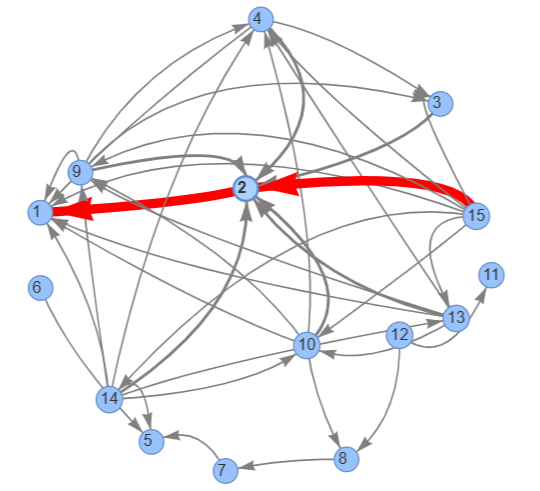
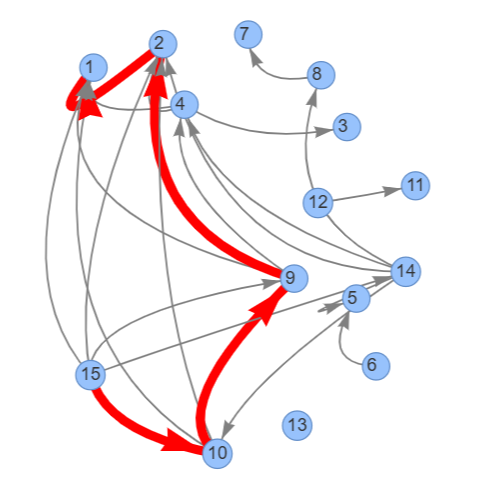
combined cross encoder and cosine together

diff --git a/interactive_graph_without_threshold.html b/interactive_graph_without_threshold.html
@@ -89,7 +89,7 @@
 
                   // parsing and collecting nodes and edges from the python
                   nodes = new vis.DataSet([{"color": "#97c2fc", "font": {"align": "center", "size": 20}, "id": 1, "label": "1", "shape": "circle", "title": "user: How do I start preparing for a career in robotics?"}, {"color": "#97c2fc", "font": {"align": "center", "size": 20}, "id": 2, "label": "2", "shape": "circle", "title": "assistant: You can begin with mechanical basics, then move into programming and embedded systems."}, {"color": "#97c2fc", "font": {"align": "center", "size": 20}, "id": 3, "label": "3", "shape": "circle", "title": "user: Which language is preferred\u2014C++ or Python?"}, {"color": "#97c2fc", "font": {"align": "center", "size": 20}, "id": 4, "label": "4", "shape": "circle", "title": "assistant: Python is great for prototyping, but C++ is essential for performance-critical robotics."}, {"color": "#97c2fc", "font": {"align": "center", "size": 20}, "id": 5, "label": "5", "shape": "circle", "title": "user: Any tips on improving productivity while studying at home?"}, {"color": "#97c2fc", "font": {"align": "center", "size": 20}, "id": 6, "label": "6", "shape": "circle", "title": "assistant: Use Pomodoro timers, block distractions, and keep a dedicated study space."}, {"color": "#97c2fc", "font": {"align": "center", "size": 20}, "id": 7, "label": "7", "shape": "circle", "title": "user: Is it effective to work out without going to the gym?"}, {"color": "#97c2fc", "font": {"align": "center", "size": 20}, "id": 8, "label": "8", "shape": "circle", "title": "assistant: Absolutely. Bodyweight exercises and consistency can be very effective."}, {"color": "#97c2fc", "font": {"align": "center", "size": 20}, "id": 9, "label": "9", "shape": "circle", "title": "user: Are there open-source platforms where I can practice robotics programming?"}, {"color": "#97c2fc", "font": {"align": "center", "size": 20}, "id": 10, "label": "10", "shape": "circle", "title": "assistant: Yes, check out ROS (Robot Operating System) and simulators like Gazebo or Webots."}, {"color": "#97c2fc", "font": {"align": "center", "size": 20}, "id": 11, "label": "11", "shape": "circle", "title": "user: What\u2019s a simple dinner recipe I can cook in under 30 minutes?"}, {"color": "#97c2fc", "font": {"align": "center", "size": 20}, "id": 12, "label": "12", "shape": "circle", "title": "assistant: Try stir-fried vegetables with tofu and rice\u2014it\u2019s quick and nutritious."}, {"color": "#97c2fc", "font": {"align": "center", "size": 20}, "id": 13, "label": "13", "shape": "circle", "title": "user: Is it necessary to know calculus for AI research?"}, {"color": "#97c2fc", "font": {"align": "center", "size": 20}, "id": 14, "label": "14", "shape": "circle", "title": "assistant: It helps with understanding backpropagation and optimization, but you can get started without mastering it."}, {"color": "#97c2fc", "font": {"align": "center", "size": 20}, "id": 15, "label": "15", "shape": "circle", "title": "user: Should I start with ROS or learn basic electronics first if I want to build small autonomous vehicles?"}]);
-                  edges = new vis.DataSet([{"arrows": "to", "color": "red", "from": 2, "title": "Weight: 0.55", "to": 1, "width": 10}, {"arrows": "to", "color": "gray", "from": 3, "title": "Weight: 0.19", "to": 1, "width": 2}, {"arrows": "to", "color": "gray", "from": 3, "title": "Weight: 0.28", "to": 2, "width": 2}, {"arrows": "to", "color": "gray", "from": 4, "title": "Weight: 0.39", "to": 1, "width": 2}, {"arrows": "to", "color": "gray", "from": 4, "title": "Weight: 0.42", "to": 2, "width": 2}, {"arrows": "to", "color": "gray", "from": 4, "title": "Weight: 0.72", "to": 3, "width": 2}, {"arrows": "to", "color": "gray", "from": 5, "title": "Weight: 0.13", "to": 1, "width": 2}, {"arrows": "to", "color": "gray", "from": 5, "title": "Weight: 0.10", "to": 2, "width": 2}, {"arrows": "to", "color": "gray", "from": 5, "title": "Weight: 0.02", "to": 3, "width": 2}, {"arrows": "to", "color": "gray", "from": 5, "title": "Weight: 0.06", "to": 4, "width": 2}, {"arrows": "to", "color": "gray", "from": 6, "title": "Weight: 0.11", "to": 1, "width": 2}, {"arrows": "to", "color": "gray", "from": 6, "title": "Weight: 0.09", "to": 2, "width": 2}, {"arrows": "to", "color": "gray", "from": 6, "title": "Weight: 0.05", "to": 4, "width": 2}, {"arrows": "to", "color": "gray", "from": 6, "title": "Weight: 0.59", "to": 5, "width": 2}, {"arrows": "to", "color": "gray", "from": 7, "title": "Weight: 0.02", "to": 4, "width": 2}, {"arrows": "to", "color": "gray", "from": 7, "title": "Weight: 0.20", "to": 5, "width": 2}, {"arrows": "to", "color": "gray", "from": 7, "title": "Weight: 0.09", "to": 6, "width": 2}, {"arrows": "to", "color": "gray", "from": 8, "title": "Weight: 0.01", "to": 1, "width": 2}, {"arrows": "to", "color": "gray", "from": 8, "title": "Weight: 0.02", "to": 2, "width": 2}, {"arrows": "to", "color": "gray", "from": 8, "title": "Weight: 0.02", "to": 3, "width": 2}, {"arrows": "to", "color": "gray", "from": 8, "title": "Weight: 0.13", "to": 4, "width": 2}, {"arrows": "to", "color": "gray", "from": 8, "title": "Weight: 0.14", "to": 5, "width": 2}, {"arrows": "to", "color": "gray", "from": 8, "title": "Weight: 0.07", "to": 6, "width": 2}, {"arrows": "to", "color": "gray", "from": 8, "title": "Weight: 0.53", "to": 7, "width": 2}, {"arrows": "to", "color": "gray", "from": 9, "title": "Weight: 0.53", "to": 1, "width": 2}, {"arrows": "to", "color": "gray", "from": 9, "title": "Weight: 0.45", "to": 2, "width": 2}, {"arrows": "to", "color": "gray", "from": 9, "title": "Weight: 0.33", "to": 3, "width": 2}, {"arrows": "to", "color": "gray", "from": 9, "title": "Weight: 0.56", "to": 4, "width": 2}, {"arrows": "to", "color": "gray", "from": 9, "title": "Weight: 0.12", "to": 5, "width": 2}, {"arrows": "to", "color": "gray", "from": 9, "title": "Weight: 0.06", "to": 6, "width": 2}, {"arrows": "to", "color": "gray", "from": 9, "title": "Weight: 0.04", "to": 7, "width": 2}, {"arrows": "to", "color": "gray", "from": 9, "title": "Weight: 0.16", "to": 8, "width": 2}, {"arrows": "to", "color": "gray", "from": 10, "title": "Weight: 0.31", "to": 1, "width": 2}, {"arrows": "to", "color": "gray", "from": 10, "title": "Weight: 0.33", "to": 2, "width": 2}, {"arrows": "to", "color": "gray", "from": 10, "title": "Weight: 0.16", "to": 3, "width": 2}, {"arrows": "to", "color": "gray", "from": 10, "title": "Weight: 0.47", "to": 4, "width": 2}, {"arrows": "to", "color": "gray", "from": 10, "title": "Weight: 0.06", "to": 5, "width": 2}, {"arrows": "to", "color": "gray", "from": 10, "title": "Weight: 0.10", "to": 6, "width": 2}, {"arrows": "to", "color": "gray", "from": 10, "title": "Weight: 0.06", "to": 7, "width": 2}, {"arrows": "to", "color": "gray", "from": 10, "title": "Weight: 0.23", "to": 8, "width": 2}, {"arrows": "to", "color": "gray", "from": 10, "title": "Weight: 0.59", "to": 9, "width": 2}, {"arrows": "to", "color": "gray", "from": 11, "title": "Weight: 0.02", "to": 2, "width": 2}, {"arrows": "to", "color": "gray", "from": 11, "title": "Weight: 0.01", "to": 3, "width": 2}, {"arrows": "to", "color": "gray", "from": 11, "title": "Weight: 0.05", "to": 4, "width": 2}, {"arrows": "to", "color": "gray", "from": 11, "title": "Weight: 0.11", "to": 5, "width": 2}, {"arrows": "to", "color": "gray", "from": 11, "title": "Weight: 0.09", "to": 6, "width": 2}, {"arrows": "to", "color": "gray", "from": 11, "title": "Weight: 0.05", "to": 7, "width": 2}, {"arrows": "to", "color": "gray", "from": 11, "title": "Weight: 0.02", "to": 8, "width": 2}, {"arrows": "to", "color": "gray", "from": 11, "title": "Weight: 0.03", "to": 9, "width": 2}, {"arrows": "to", "color": "gray", "from": 12, "title": "Weight: 0.00", "to": 1, "width": 2}, {"arrows": "to", "color": "gray", "from": 12, "title": "Weight: 0.08", "to": 2, "width": 2}, {"arrows": "to", "color": "gray", "from": 12, "title": "Weight: 0.02", "to": 3, "width": 2}, {"arrows": "to", "color": "gray", "from": 12, "title": "Weight: 0.07", "to": 4, "width": 2}, {"arrows": "to", "color": "gray", "from": 12, "title": "Weight: 0.12", "to": 5, "width": 2}, {"arrows": "to", "color": "gray", "from": 12, "title": "Weight: 0.11", "to": 6, "width": 2}, {"arrows": "to", "color": "gray", "from": 12, "title": "Weight: 0.11", "to": 7, "width": 2}, {"arrows": "to", "color": "gray", "from": 12, "title": "Weight: 0.24", "to": 8, "width": 2}, {"arrows": "to", "color": "gray", "from": 12, "title": "Weight: 0.10", "to": 9, "width": 2}, {"arrows": "to", "color": "gray", "from": 12, "title": "Weight: 0.07", "to": 10, "width": 2}, {"arrows": "to", "color": "gray", "from": 12, "title": "Weight: 0.38", "to": 11, "width": 2}, {"arrows": "to", "color": "gray", "from": 13, "title": "Weight: 0.29", "to": 1, "width": 2}, {"arrows": "to", "color": "gray", "from": 13, "title": "Weight: 0.26", "to": 2, "width": 2}, {"arrows": "to", "color": "gray", "from": 13, "title": "Weight: 0.15", "to": 3, "width": 2}, {"arrows": "to", "color": "gray", "from": 13, "title": "Weight: 0.28", "to": 4, "width": 2}, {"arrows": "to", "color": "gray", "from": 13, "title": "Weight: 0.14", "to": 5, "width": 2}, {"arrows": "to", "color": "gray", "from": 13, "title": "Weight: 0.14", "to": 6, "width": 2}, {"arrows": "to", "color": "gray", "from": 13, "title": "Weight: 0.10", "to": 7, "width": 2}, {"arrows": "to", "color": "gray", "from": 13, "title": "Weight: 0.14", "to": 8, "width": 2}, {"arrows": "to", "color": "gray", "from": 13, "title": "Weight: 0.24", "to": 9, "width": 2}, {"arrows": "to", "color": "gray", "from": 13, "title": "Weight: 0.29", "to": 10, "width": 2}, {"arrows": "to", "color": "gray", "from": 14, "title": "Weight: 0.28", "to": 1, "width": 2}, {"arrows": "to", "color": "gray", "from": 14, "title": "Weight: 0.37", "to": 2, "width": 2}, {"arrows": "to", "color": "gray", "from": 14, "title": "Weight: 0.19", "to": 3, "width": 2}, {"arrows": "to", "color": "gray", "from": 14, "title": "Weight: 0.34", "to": 4, "width": 2}, {"arrows": "to", "color": "gray", "from": 14, "title": "Weight: 0.24", "to": 5, "width": 2}, {"arrows": "to", "color": "gray", "from": 14, "title": "Weight: 0.17", "to": 6, "width": 2}, {"arrows": "to", "color": "gray", "from": 14, "title": "Weight: 0.14", "to": 7, "width": 2}, {"arrows": "to", "color": "gray", "from": 14, "title": "Weight: 0.14", "to": 8, "width": 2}, {"arrows": "to", "color": "gray", "from": 14, "title": "Weight: 0.30", "to": 9, "width": 2}, {"arrows": "to", "color": "gray", "from": 14, "title": "Weight: 0.27", "to": 10, "width": 2}, {"arrows": "to", "color": "gray", "from": 14, "title": "Weight: 0.05", "to": 11, "width": 2}, {"arrows": "to", "color": "gray", "from": 14, "title": "Weight: 0.06", "to": 12, "width": 2}, {"arrows": "to", "color": "gray", "from": 14, "title": "Weight: 0.57", "to": 13, "width": 2}, {"arrows": "to", "color": "gray", "from": 15, "title": "Weight: 0.53", "to": 1, "width": 2}, {"arrows": "to", "color": "red", "from": 15, "title": "Weight: 0.53", "to": 2, "width": 10}, {"arrows": "to", "color": "gray", "from": 15, "title": "Weight: 0.28", "to": 3, "width": 2}, {"arrows": "to", "color": "gray", "from": 15, "title": "Weight: 0.38", "to": 4, "width": 2}, {"arrows": "to", "color": "gray", "from": 15, "title": "Weight: 0.09", "to": 5, "width": 2}, {"arrows": "to", "color": "gray", "from": 15, "title": "Weight: 0.00", "to": 6, "width": 2}, {"arrows": "to", "color": "gray", "from": 15, "title": "Weight: 0.00", "to": 7, "width": 2}, {"arrows": "to", "color": "gray", "from": 15, "title": "Weight: 0.08", "to": 8, "width": 2}, {"arrows": "to", "color": "gray", "from": 15, "title": "Weight: 0.39", "to": 9, "width": 2}, {"arrows": "to", "color": "gray", "from": 15, "title": "Weight: 0.39", "to": 10, "width": 2}, {"arrows": "to", "color": "gray", "from": 15, "title": "Weight: 0.06", "to": 11, "width": 2}, {"arrows": "to", "color": "gray", "from": 15, "title": "Weight: 0.05", "to": 12, "width": 2}, {"arrows": "to", "color": "gray", "from": 15, "title": "Weight: 0.26", "to": 13, "width": 2}, {"arrows": "to", "color": "gray", "from": 15, "title": "Weight: 0.35", "to": 14, "width": 2}]);
+                  edges = new vis.DataSet([{"arrows": "to", "color": "red", "from": 2, "title": "Weight: 0.37", "to": 1, "width": 10}, {"arrows": "to", "color": "gray", "from": 3, "title": "Weight: 0.00", "to": 1, "width": 2}, {"arrows": "to", "color": "gray", "from": 3, "title": "Weight: 0.14", "to": 2, "width": 2}, {"arrows": "to", "color": "gray", "from": 4, "title": "Weight: 0.21", "to": 1, "width": 2}, {"arrows": "to", "color": "gray", "from": 4, "title": "Weight: 0.24", "to": 2, "width": 2}, {"arrows": "to", "color": "gray", "from": 4, "title": "Weight: 0.40", "to": 3, "width": 2}, {"arrows": "to", "color": "gray", "from": 5, "title": "Weight: 0.01", "to": 1, "width": 2}, {"arrows": "to", "color": "gray", "from": 5, "title": "Weight: 0.01", "to": 2, "width": 2}, {"arrows": "to", "color": "gray", "from": 5, "title": "Weight: 0.02", "to": 3, "width": 2}, {"arrows": "to", "color": "gray", "from": 5, "title": "Weight: 0.04", "to": 4, "width": 2}, {"arrows": "to", "color": "gray", "from": 6, "title": "Weight: 0.00", "to": 1, "width": 2}, {"arrows": "to", "color": "gray", "from": 6, "title": "Weight: 0.02", "to": 2, "width": 2}, {"arrows": "to", "color": "gray", "from": 6, "title": "Weight: 0.00", "to": 3, "width": 2}, {"arrows": "to", "color": "gray", "from": 6, "title": "Weight: 0.00", "to": 4, "width": 2}, {"arrows": "to", "color": "gray", "from": 6, "title": "Weight: 0.29", "to": 5, "width": 2}, {"arrows": "to", "color": "gray", "from": 7, "title": "Weight: 0.00", "to": 1, "width": 2}, {"arrows": "to", "color": "gray", "from": 7, "title": "Weight: 0.00", "to": 2, "width": 2}, {"arrows": "to", "color": "gray", "from": 7, "title": "Weight: 0.00", "to": 3, "width": 2}, {"arrows": "to", "color": "gray", "from": 7, "title": "Weight: 0.00", "to": 4, "width": 2}, {"arrows": "to", "color": "gray", "from": 7, "title": "Weight: 0.08", "to": 5, "width": 2}, {"arrows": "to", "color": "gray", "from": 7, "title": "Weight: 0.01", "to": 6, "width": 2}, {"arrows": "to", "color": "gray", "from": 8, "title": "Weight: 0.00", "to": 1, "width": 2}, {"arrows": "to", "color": "gray", "from": 8, "title": "Weight: 0.02", "to": 2, "width": 2}, {"arrows": "to", "color": "gray", "from": 8, "title": "Weight: 0.00", "to": 3, "width": 2}, {"arrows": "to", "color": "gray", "from": 8, "title": "Weight: 0.01", "to": 4, "width": 2}, {"arrows": "to", "color": "gray", "from": 8, "title": "Weight: 0.08", "to": 5, "width": 2}, {"arrows": "to", "color": "gray", "from": 8, "title": "Weight: 0.04", "to": 6, "width": 2}, {"arrows": "to", "color": "gray", "from": 8, "title": "Weight: 0.33", "to": 7, "width": 2}, {"arrows": "to", "color": "gray", "from": 9, "title": "Weight: 0.41", "to": 1, "width": 2}, {"arrows": "to", "color": "red", "from": 9, "title": "Weight: 0.30", "to": 2, "width": 10}, {"arrows": "to", "color": "gray", "from": 9, "title": "Weight: 0.09", "to": 3, "width": 2}, {"arrows": "to", "color": "gray", "from": 9, "title": "Weight: 0.23", "to": 4, "width": 2}, {"arrows": "to", "color": "gray", "from": 9, "title": "Weight: 0.06", "to": 5, "width": 2}, {"arrows": "to", "color": "gray", "from": 9, "title": "Weight: 0.01", "to": 6, "width": 2}, {"arrows": "to", "color": "gray", "from": 9, "title": "Weight: 0.03", "to": 7, "width": 2}, {"arrows": "to", "color": "gray", "from": 9, "title": "Weight: 0.00", "to": 8, "width": 2}, {"arrows": "to", "color": "gray", "from": 10, "title": "Weight: 0.24", "to": 1, "width": 2}, {"arrows": "to", "color": "gray", "from": 10, "title": "Weight: 0.27", "to": 2, "width": 2}, {"arrows": "to", "color": "gray", "from": 10, "title": "Weight: 0.02", "to": 3, "width": 2}, {"arrows": "to", "color": "gray", "from": 10, "title": "Weight: 0.19", "to": 4, "width": 2}, {"arrows": "to", "color": "gray", "from": 10, "title": "Weight: 0.11", "to": 5, "width": 2}, {"arrows": "to", "color": "gray", "from": 10, "title": "Weight: 0.07", "to": 6, "width": 2}, {"arrows": "to", "color": "gray", "from": 10, "title": "Weight: 0.05", "to": 7, "width": 2}, {"arrows": "to", "color": "gray", "from": 10, "title": "Weight: 0.07", "to": 8, "width": 2}, {"arrows": "to", "color": "red", "from": 10, "title": "Weight: 0.31", "to": 9, "width": 10}, {"arrows": "to", "color": "gray", "from": 11, "title": "Weight: 0.00", "to": 1, "width": 2}, {"arrows": "to", "color": "gray", "from": 11, "title": "Weight: 0.00", "to": 2, "width": 2}, {"arrows": "to", "color": "gray", "from": 11, "title": "Weight: 0.00", "to": 3, "width": 2}, {"arrows": "to", "color": "gray", "from": 11, "title": "Weight: 0.00", "to": 4, "width": 2}, {"arrows": "to", "color": "gray", "from": 11, "title": "Weight: 0.01", "to": 5, "width": 2}, {"arrows": "to", "color": "gray", "from": 11, "title": "Weight: 0.01", "to": 6, "width": 2}, {"arrows": "to", "color": "gray", "from": 11, "title": "Weight: 0.00", "to": 7, "width": 2}, {"arrows": "to", "color": "gray", "from": 11, "title": "Weight: 0.00", "to": 8, "width": 2}, {"arrows": "to", "color": "gray", "from": 11, "title": "Weight: 0.00", "to": 9, "width": 2}, {"arrows": "to", "color": "gray", "from": 11, "title": "Weight: 0.00", "to": 10, "width": 2}, {"arrows": "to", "color": "gray", "from": 12, "title": "Weight: 0.00", "to": 1, "width": 2}, {"arrows": "to", "color": "gray", "from": 12, "title": "Weight: 0.02", "to": 2, "width": 2}, {"arrows": "to", "color": "gray", "from": 12, "title": "Weight: 0.00", "to": 3, "width": 2}, {"arrows": "to", "color": "gray", "from": 12, "title": "Weight: 0.01", "to": 4, "width": 2}, {"arrows": "to", "color": "gray", "from": 12, "title": "Weight: 0.04", "to": 5, "width": 2}, {"arrows": "to", "color": "gray", "from": 12, "title": "Weight: 0.02", "to": 6, "width": 2}, {"arrows": "to", "color": "gray", "from": 12, "title": "Weight: 0.03", "to": 7, "width": 2}, {"arrows": "to", "color": "gray", "from": 12, "title": "Weight: 0.06", "to": 8, "width": 2}, {"arrows": "to", "color": "gray", "from": 12, "title": "Weight: 0.00", "to": 9, "width": 2}, {"arrows": "to", "color": "gray", "from": 12, "title": "Weight: 0.04", "to": 10, "width": 2}, {"arrows": "to", "color": "gray", "from": 12, "title": "Weight: 0.21", "to": 11, "width": 2}, {"arrows": "to", "color": "gray", "from": 13, "title": "Weight: 0.17", "to": 1, "width": 2}, {"arrows": "to", "color": "gray", "from": 13, "title": "Weight: 0.07", "to": 2, "width": 2}, {"arrows": "to", "color": "gray", "from": 13, "title": "Weight: 0.03", "to": 3, "width": 2}, {"arrows": "to", "color": "gray", "from": 13, "title": "Weight: 0.08", "to": 4, "width": 2}, {"arrows": "to", "color": "gray", "from": 13, "title": "Weight: 0.06", "to": 5, "width": 2}, {"arrows": "to", "color": "gray", "from": 13, "title": "Weight: 0.04", "to": 6, "width": 2}, {"arrows": "to", "color": "gray", "from": 13, "title": "Weight: 0.00", "to": 7, "width": 2}, {"arrows": "to", "color": "gray", "from": 13, "title": "Weight: 0.00", "to": 8, "width": 2}, {"arrows": "to", "color": "gray", "from": 13, "title": "Weight: 0.15", "to": 9, "width": 2}, {"arrows": "to", "color": "gray", "from": 13, "title": "Weight: 0.11", "to": 10, "width": 2}, {"arrows": "to", "color": "gray", "from": 13, "title": "Weight: 0.00", "to": 11, "width": 2}, {"arrows": "to", "color": "gray", "from": 13, "title": "Weight: 0.00", "to": 12, "width": 2}, {"arrows": "to", "color": "gray", "from": 14, "title": "Weight: 0.20", "to": 1, "width": 2}, {"arrows": "to", "color": "gray", "from": 14, "title": "Weight: 0.32", "to": 2, "width": 2}, {"arrows": "to", "color": "gray", "from": 14, "title": "Weight: 0.09", "to": 3, "width": 2}, {"arrows": "to", "color": "gray", "from": 14, "title": "Weight: 0.27", "to": 4, "width": 2}, {"arrows": "to", "color": "gray", "from": 14, "title": "Weight: 0.21", "to": 5, "width": 2}, {"arrows": "to", "color": "gray", "from": 14, "title": "Weight: 0.15", "to": 6, "width": 2}, {"arrows": "to", "color": "gray", "from": 14, "title": "Weight: 0.17", "to": 7, "width": 2}, {"arrows": "to", "color": "gray", "from": 14, "title": "Weight: 0.20", "to": 8, "width": 2}, {"arrows": "to", "color": "gray", "from": 14, "title": "Weight: 0.17", "to": 9, "width": 2}, {"arrows": "to", "color": "gray", "from": 14, "title": "Weight: 0.21", "to": 10, "width": 2}, {"arrows": "to", "color": "gray", "from": 14, "title": "Weight: 0.08", "to": 11, "width": 2}, {"arrows": "to", "color": "gray", "from": 14, "title": "Weight: 0.08", "to": 12, "width": 2}, {"arrows": "to", "color": "gray", "from": 14, "title": "Weight: 0.15", "to": 13, "width": 2}, {"arrows": "to", "color": "gray", "from": 15, "title": "Weight: 0.49", "to": 1, "width": 2}, {"arrows": "to", "color": "gray", "from": 15, "title": "Weight: 0.44", "to": 2, "width": 2}, {"arrows": "to", "color": "gray", "from": 15, "title": "Weight: 0.03", "to": 3, "width": 2}, {"arrows": "to", "color": "gray", "from": 15, "title": "Weight: 0.19", "to": 4, "width": 2}, {"arrows": "to", "color": "gray", "from": 15, "title": "Weight: 0.11", "to": 5, "width": 2}, {"arrows": "to", "color": "gray", "from": 15, "title": "Weight: 0.02", "to": 6, "width": 2}, {"arrows": "to", "color": "gray", "from": 15, "title": "Weight: 0.01", "to": 7, "width": 2}, {"arrows": "to", "color": "gray", "from": 15, "title": "Weight: 0.00", "to": 8, "width": 2}, {"arrows": "to", "color": "gray", "from": 15, "title": "Weight: 0.40", "to": 9, "width": 2}, {"arrows": "to", "color": "red", "from": 15, "title": "Weight: 0.51", "to": 10, "width": 10}, {"arrows": "to", "color": "gray", "from": 15, "title": "Weight: 0.01", "to": 11, "width": 2}, {"arrows": "to", "color": "gray", "from": 15, "title": "Weight: 0.00", "to": 12, "width": 2}, {"arrows": "to", "color": "gray", "from": 15, "title": "Weight: 0.11", "to": 13, "width": 2}, {"arrows": "to", "color": "gray", "from": 15, "title": "Weight: 0.24", "to": 14, "width": 2}]);
 
                   nodeColors = {};
                   allNodes = nodes.get({ returnType: "Object" });

diff --git a/interactive_graph_with_threshold.html b/interactive_graph_with_threshold.html
@@ -89,7 +89,7 @@
 
                   // parsing and collecting nodes and edges from the python
                   nodes = new vis.DataSet([{"color": "#97c2fc", "font": {"align": "center", "size": 20}, "id": 1, "label": "1", "shape": "circle", "title": "user: How do I start preparing for a career in robotics?"}, {"color": "#97c2fc", "font": {"align": "center", "size": 20}, "id": 2, "label": "2", "shape": "circle", "title": "assistant: You can begin with mechanical basics, then move into programming and embedded systems."}, {"color": "#97c2fc", "font": {"align": "center", "size": 20}, "id": 3, "label": "3", "shape": "circle", "title": "user: Which language is preferred\u2014C++ or Python?"}, {"color": "#97c2fc", "font": {"align": "center", "size": 20}, "id": 4, "label": "4", "shape": "circle", "title": "assistant: Python is great for prototyping, but C++ is essential for performance-critical robotics."}, {"color": "#97c2fc", "font": {"align": "center", "size": 20}, "id": 5, "label": "5", "shape": "circle", "title": "user: Any tips on improving productivity while studying at home?"}, {"color": "#97c2fc", "font": {"align": "center", "size": 20}, "id": 6, "label": "6", "shape": "circle", "title": "assistant: Use Pomodoro timers, block distractions, and keep a dedicated study space."}, {"color": "#97c2fc", "font": {"align": "center", "size": 20}, "id": 7, "label": "7", "shape": "circle", "title": "user: Is it effective to work out without going to the gym?"}, {"color": "#97c2fc", "font": {"align": "center", "size": 20}, "id": 8, "label": "8", "shape": "circle", "title": "assistant: Absolutely. Bodyweight exercises and consistency can be very effective."}, {"color": "#97c2fc", "font": {"align": "center", "size": 20}, "id": 9, "label": "9", "shape": "circle", "title": "user: Are there open-source platforms where I can practice robotics programming?"}, {"color": "#97c2fc", "font": {"align": "center", "size": 20}, "id": 10, "label": "10", "shape": "circle", "title": "assistant: Yes, check out ROS (Robot Operating System) and simulators like Gazebo or Webots."}, {"color": "#97c2fc", "font": {"align": "center", "size": 20}, "id": 11, "label": "11", "shape": "circle", "title": "user: What\u2019s a simple dinner recipe I can cook in under 30 minutes?"}, {"color": "#97c2fc", "font": {"align": "center", "size": 20}, "id": 12, "label": "12", "shape": "circle", "title": "assistant: Try stir-fried vegetables with tofu and rice\u2014it\u2019s quick and nutritious."}, {"color": "#97c2fc", "font": {"align": "center", "size": 20}, "id": 13, "label": "13", "shape": "circle", "title": "user: Is it necessary to know calculus for AI research?"}, {"color": "#97c2fc", "font": {"align": "center", "size": 20}, "id": 14, "label": "14", "shape": "circle", "title": "assistant: It helps with understanding backpropagation and optimization, but you can get started without mastering it."}, {"color": "#97c2fc", "font": {"align": "center", "size": 20}, "id": 15, "label": "15", "shape": "circle", "title": "user: Should I start with ROS or learn basic electronics first if I want to build small autonomous vehicles?"}]);
-                  edges = new vis.DataSet([{"arrows": "to", "color": "red", "from": 2, "title": "Weight: 0.55", "to": 1, "width": 10}, {"arrows": "to", "color": "gray", "from": 3, "title": "Weight: 0.28", "to": 2, "width": 2}, {"arrows": "to", "color": "gray", "from": 4, "title": "Weight: 0.39", "to": 1, "width": 2}, {"arrows": "to", "color": "gray", "from": 4, "title": "Weight: 0.42", "to": 2, "width": 2}, {"arrows": "to", "color": "gray", "from": 4, "title": "Weight: 0.72", "to": 3, "width": 2}, {"arrows": "to", "color": "gray", "from": 6, "title": "Weight: 0.59", "to": 5, "width": 2}, {"arrows": "to", "color": "gray", "from": 7, "title": "Weight: 0.20", "to": 5, "width": 2}, {"arrows": "to", "color": "gray", "from": 8, "title": "Weight: 0.53", "to": 7, "width": 2}, {"arrows": "to", "color": "gray", "from": 9, "title": "Weight: 0.53", "to": 1, "width": 2}, {"arrows": "to", "color": "gray", "from": 9, "title": "Weight: 0.45", "to": 2, "width": 2}, {"arrows": "to", "color": "gray", "from": 9, "title": "Weight: 0.33", "to": 3, "width": 2}, {"arrows": "to", "color": "gray", "from": 9, "title": "Weight: 0.56", "to": 4, "width": 2}, {"arrows": "to", "color": "gray", "from": 10, "title": "Weight: 0.31", "to": 1, "width": 2}, {"arrows": "to", "color": "gray", "from": 10, "title": "Weight: 0.33", "to": 2, "width": 2}, {"arrows": "to", "color": "gray", "from": 10, "title": "Weight: 0.47", "to": 4, "width": 2}, {"arrows": "to", "color": "gray", "from": 10, "title": "Weight: 0.23", "to": 8, "width": 2}, {"arrows": "to", "color": "gray", "from": 10, "title": "Weight: 0.59", "to": 9, "width": 2}, {"arrows": "to", "color": "gray", "from": 12, "title": "Weight: 0.24", "to": 8, "width": 2}, {"arrows": "to", "color": "gray", "from": 12, "title": "Weight: 0.38", "to": 11, "width": 2}, {"arrows": "to", "color": "gray", "from": 13, "title": "Weight: 0.29", "to": 1, "width": 2}, {"arrows": "to", "color": "gray", "from": 13, "title": "Weight: 0.26", "to": 2, "width": 2}, {"arrows": "to", "color": "gray", "from": 13, "title": "Weight: 0.28", "to": 4, "width": 2}, {"arrows": "to", "color": "gray", "from": 13, "title": "Weight: 0.24", "to": 9, "width": 2}, {"arrows": "to", "color": "gray", "from": 13, "title": "Weight: 0.29", "to": 10, "width": 2}, {"arrows": "to", "color": "gray", "from": 14, "title": "Weight: 0.28", "to": 1, "width": 2}, {"arrows": "to", "color": "gray", "from": 14, "title": "Weight: 0.37", "to": 2, "width": 2}, {"arrows": "to", "color": "gray", "from": 14, "title": "Weight: 0.34", "to": 4, "width": 2}, {"arrows": "to", "color": "gray", "from": 14, "title": "Weight: 0.24", "to": 5, "width": 2}, {"arrows": "to", "color": "gray", "from": 14, "title": "Weight: 0.30", "to": 9, "width": 2}, {"arrows": "to", "color": "gray", "from": 14, "title": "Weight: 0.27", "to": 10, "width": 2}, {"arrows": "to", "color": "gray", "from": 14, "title": "Weight: 0.57", "to": 13, "width": 2}, {"arrows": "to", "color": "gray", "from": 15, "title": "Weight: 0.53", "to": 1, "width": 2}, {"arrows": "to", "color": "red", "from": 15, "title": "Weight: 0.53", "to": 2, "width": 10}, {"arrows": "to", "color": "gray", "from": 15, "title": "Weight: 0.28", "to": 3, "width": 2}, {"arrows": "to", "color": "gray", "from": 15, "title": "Weight: 0.38", "to": 4, "width": 2}, {"arrows": "to", "color": "gray", "from": 15, "title": "Weight: 0.39", "to": 9, "width": 2}, {"arrows": "to", "color": "gray", "from": 15, "title": "Weight: 0.39", "to": 10, "width": 2}, {"arrows": "to", "color": "gray", "from": 15, "title": "Weight: 0.26", "to": 13, "width": 2}, {"arrows": "to", "color": "gray", "from": 15, "title": "Weight: 0.35", "to": 14, "width": 2}]);
+                  edges = new vis.DataSet([{"arrows": "to", "color": "red", "from": 2, "title": "Weight: 0.55", "to": 1, "width": 10}, {"arrows": "to", "color": "gray", "from": 4, "title": "Weight: 0.39", "to": 1, "width": 2}, {"arrows": "to", "color": "gray", "from": 4, "title": "Weight: 0.42", "to": 2, "width": 2}, {"arrows": "to", "color": "gray", "from": 4, "title": "Weight: 0.72", "to": 3, "width": 2}, {"arrows": "to", "color": "gray", "from": 9, "title": "Weight: 0.53", "to": 1, "width": 2}, {"arrows": "to", "color": "gray", "from": 9, "title": "Weight: 0.45", "to": 2, "width": 2}, {"arrows": "to", "color": "gray", "from": 9, "title": "Weight: 0.33", "to": 3, "width": 2}, {"arrows": "to", "color": "gray", "from": 9, "title": "Weight: 0.56", "to": 4, "width": 2}, {"arrows": "to", "color": "gray", "from": 10, "title": "Weight: 0.31", "to": 1, "width": 2}, {"arrows": "to", "color": "gray", "from": 10, "title": "Weight: 0.33", "to": 2, "width": 2}, {"arrows": "to", "color": "gray", "from": 10, "title": "Weight: 0.47", "to": 4, "width": 2}, {"arrows": "to", "color": "gray", "from": 10, "title": "Weight: 0.23", "to": 8, "width": 2}, {"arrows": "to", "color": "gray", "from": 10, "title": "Weight: 0.59", "to": 9, "width": 2}, {"arrows": "to", "color": "gray", "from": 13, "title": "Weight: 0.29", "to": 1, "width": 2}, {"arrows": "to", "color": "gray", "from": 13, "title": "Weight: 0.26", "to": 2, "width": 2}, {"arrows": "to", "color": "gray", "from": 13, "title": "Weight: 0.28", "to": 4, "width": 2}, {"arrows": "to", "color": "gray", "from": 13, "title": "Weight: 0.24", "to": 9, "width": 2}, {"arrows": "to", "color": "gray", "from": 13, "title": "Weight: 0.29", "to": 10, "width": 2}, {"arrows": "to", "color": "gray", "from": 14, "title": "Weight: 0.28", "to": 1, "width": 2}, {"arrows": "to", "color": "gray", "from": 14, "title": "Weight: 0.37", "to": 2, "width": 2}, {"arrows": "to", "color": "gray", "from": 14, "title": "Weight: 0.34", "to": 4, "width": 2}, {"arrows": "to", "color": "gray", "from": 14, "title": "Weight: 0.24", "to": 5, "width": 2}, {"arrows": "to", "color": "gray", "from": 14, "title": "Weight: 0.30", "to": 9, "width": 2}, {"arrows": "to", "color": "gray", "from": 14, "title": "Weight: 0.27", "to": 10, "width": 2}, {"arrows": "to", "color": "gray", "from": 14, "title": "Weight: 0.57", "to": 13, "width": 2}, {"arrows": "to", "color": "gray", "from": 15, "title": "Weight: 0.53", "to": 1, "width": 2}, {"arrows": "to", "color": "red", "from": 15, "title": "Weight: 0.53", "to": 2, "width": 10}, {"arrows": "to", "color": "gray", "from": 15, "title": "Weight: 0.28", "to": 3, "width": 2}, {"arrows": "to", "color": "gray", "from": 15, "title": "Weight: 0.38", "to": 4, "width": 2}, {"arrows": "to", "color": "gray", "from": 15, "title": "Weight: 0.39", "to": 9, "width": 2}, {"arrows": "to", "color": "gray", "from": 15, "title": "Weight: 0.39", "to": 10, "width": 2}, {"arrows": "to", "color": "gray", "from": 15, "title": "Weight: 0.26", "to": 13, "width": 2}, {"arrows": "to", "color": "gray", "from": 15, "title": "Weight: 0.35", "to": 14, "width": 2}, {"arrows": "to", "color": "gray", "from": 3, "title": "Weight: 0.28", "to": 2, "width": 2}, {"arrows": "to", "color": "gray", "from": 6, "title": "Weight: 0.59", "to": 5, "width": 2}, {"arrows": "to", "color": "gray", "from": 7, "title": "Weight: 0.20", "to": 5, "width": 2}, {"arrows": "to", "color": "gray", "from": 8, "title": "Weight: 0.53", "to": 7, "width": 2}, {"arrows": "to", "color": "gray", "from": 12, "title": "Weight: 0.24", "to": 8, "width": 2}, {"arrows": "to", "color": "gray", "from": 12, "title": "Weight: 0.38", "to": 11, "width": 2}]);
 
                   nodeColors = {};
                   allNodes = nodes.get({ returnType: "Object" });

diff --git a/semanticContextGraph.py b/semanticContextGraph.py
@@ -1,31 +1,52 @@
-from sentence_transformers import SentenceTransformer
+from sentence_transformers import SentenceTransformer, CrossEncoder
 import networkx as nx
 import numpy as np
 from pyvis.network import Network
 
 class SemanticContextGraph:
-    def __init__(self, chat_messages, model_name="all-MiniLM-L6-v2"):
+    def __init__(self, chat_messages, model_name="all-MiniLM-L6-v2", mode="embedding"):
         self.chat_messages = chat_messages
         self.sentences = [msg["content"] for msg in chat_messages]
         self.roles = {i: msg["role"] for i, msg in enumerate(chat_messages)}
-        self.model = SentenceTransformer(model_name)
-        self.embeddings = self.model.encode(self.sentences)
+        self.mode = mode.lower()
+
+        if self.mode == "embedding":
+            self.model = SentenceTransformer(model_name)
+        elif self.mode == "cross":
+            self.model = CrossEncoder(model_name)
+        else:
+            raise ValueError("mode must be either 'embedding' or 'cross'")
+
         self.graph = nx.DiGraph()
         self.similarity_matrix = self._compute_strict_upper_similarity()
+        # print(self.similarity_matrix.tolist())
 
     def _compute_strict_upper_similarity(self):
-        sim = np.asarray(self.model.similarity(self.embeddings, self.embeddings))
-        for i in range(len(sim)):
-            sim[i, i] = 0
-            for j in range(i):
-                sim[i, j] = 0
-        return sim
+        n = len(self.sentences)
+        sim_matrix = np.zeros((n, n))
+
+        if self.mode == "embedding":
+            embeddings = self.model.encode(self.sentences)
+            sim_matrix = np.asarray(self.model.similarity(embeddings, embeddings))
+            for i in range(n):
+                sim_matrix[i, i] = 0
+                for j in range(i):
+                    sim_matrix[i, j] = 0
+        else:  # mode == "cross"
+            for i in range(n):
+                for j in range(i + 1, n):
+                    score = self.model.predict([[self.sentences[i], self.sentences[j]]])[0]
+                    sim_matrix[i, j] = score  # i = earlier, j = later
+
+        return sim_matrix
 
     def build_graph(self, threshold=0.0):
         for i in range(len(self.similarity_matrix)):
-            for j in range(len(self.similarity_matrix)):
-                if self.similarity_matrix[j, i] > threshold:
-                    self.graph.add_edge(i + 1, j + 1, weight=round(self.similarity_matrix[j, i], 2))
+            for j in range(i + 1, len(self.similarity_matrix)):
+                score = self.similarity_matrix[i, j]
+                if score > threshold:
+                    self.graph.add_edge(j + 1, i + 1, weight=round(score, 2))  # from current (j) ➝ past (i)
+        print(self.graph.edges)
 
     def greedy_path(self, start_node, goal_node):
         current = start_node
@@ -40,15 +61,17 @@ class SemanticContextGraph:
             path.append(next_node)
             current = next_node
         return path
-    
+
     def extract_relevant_messages(self, path):
         path = list(reversed(path))
         used_ids = []
         selected = []
+
         def add_if_new(idx):
             if idx not in used_ids and 0 <= idx < len(self.sentences):
                 used_ids.append(idx)
                 selected.append({"role": self.roles[idx], "content": self.sentences[idx]})
+
         for node in path:
             idx = node - 1
             add_if_new(idx)
@@ -58,7 +81,6 @@ class SemanticContextGraph:
                 add_if_new(idx - 1)
 
         return used_ids, selected
-
 
     def save_pyvis_graph(self, highlight_path=None, file_name="interactive_graph.html"):
         net = Network(height="800px", width="100%", directed=True)
@@ -78,7 +100,6 @@ class SemanticContextGraph:
             weight = float(data["weight"])
             color = "gray"
             width = 2
-            print(u-1, v-1, weight, highlight_path)
             if highlight_path and (u-1, v-1) in zip(highlight_path[1:], highlight_path):
                 color = "red"
                 width = 10
@@ -106,7 +127,25 @@ chat_messages = [
 ]
 
 threshold=0.2
-graph = SemanticContextGraph(chat_messages)
+print("*"*40)
+print("Cross encoder")
+graph = SemanticContextGraph(chat_messages, model_name="cross-encoder/stsb-roberta-base", mode="cross")
+graph.build_graph(threshold=threshold)
+path = graph.greedy_path(start_node=len(chat_messages), goal_node=1)
+path_recreated, messages = graph.extract_relevant_messages(path)
+
+if threshold == 0.0:
+    graph.save_pyvis_graph(highlight_path=path_recreated, file_name="interactive_graph_without_threshold.html")
+else:
+    graph.save_pyvis_graph(highlight_path=path_recreated, file_name="interactive_graph_with_threshold.html")
+
+for msg in messages:
+    print(f"{msg['role'].upper()}: {msg['content']}")
+
+
+print("*"*40)
+print("Cosine similarity encoder")
+graph = SemanticContextGraph(chat_messages, model_name="all-MiniLM-L6-v2", mode="embedding")
 graph.build_graph(threshold=threshold)
 path = graph.greedy_path(start_node=len(chat_messages), goal_node=1)
 path_recreated, messages = graph.extract_relevant_messages(path)

diff --git a/README.md b/README.md
@@ -7,7 +7,7 @@ It builds a similarity graph over the messages and uses a greedy algorithm to tr
 
 ### ✨ Features
 
-- Builds a semantic similarity graph using **SentenceTransformers**
+- Builds a semantic similarity graph using **SentenceTransformers** or **CrossEncoder**
 - Applies **greedy relevance tracing** to extract core context
 - Handles both `user` and `assistant` roles, preserving causal links
 - Outputs filtered message trace for LLM context compression
@@ -49,10 +49,31 @@ for msg in relevant_messages:
 
 ### 🧠 How It Works
 
-1. **Embeds all messages** using a SentenceTransformer model (default: `all-MiniLM-L6-v2`)
-2. **Creates a directed graph**, where edges connect semantically similar previous messages
+1. **Embeds all messages** using a SentenceTransformer model (default: `all-MiniLM-L6-v2`) or scores them with `CrossEncoder`
+2. **Creates a directed graph**, where edges connect semantically similar earlier messages
 3. **Traverses greedily** from latest message to earliest relevant ones, following strongest similarities
 4. **Returns only the subset** of messages needed to understand or reply to the final input
+
+---
+
+### 🔍 Visual Comparison: With vs Without Threshold
+
+<p align="center">
+  <img src="images/without_threshold.png" alt="GreedyContext Graph Example without threshold" width="500"/>
+</p>
+
+<p align="center">
+  <img src="images/with_threshold.png" alt="GreedyContext Graph Example with threshold 0.2" width="500"/>
+</p>
+
+Even though both graphs above result in the same final semantic path (shown in red), the **second graph (with threshold)** contains fewer edges overall.
+
+This means:
+- 🔻 Fewer semantic hops to consider
+- ✅ Lower noise in the graph
+- 📉 Less memory usage when sending messages to the LLM
+
+In some cases, applying a threshold **may break a path** (no connection found) — but when it works, it ensures that **only the strongest, most meaningful message connections** are preserved.
 
 ---
 
